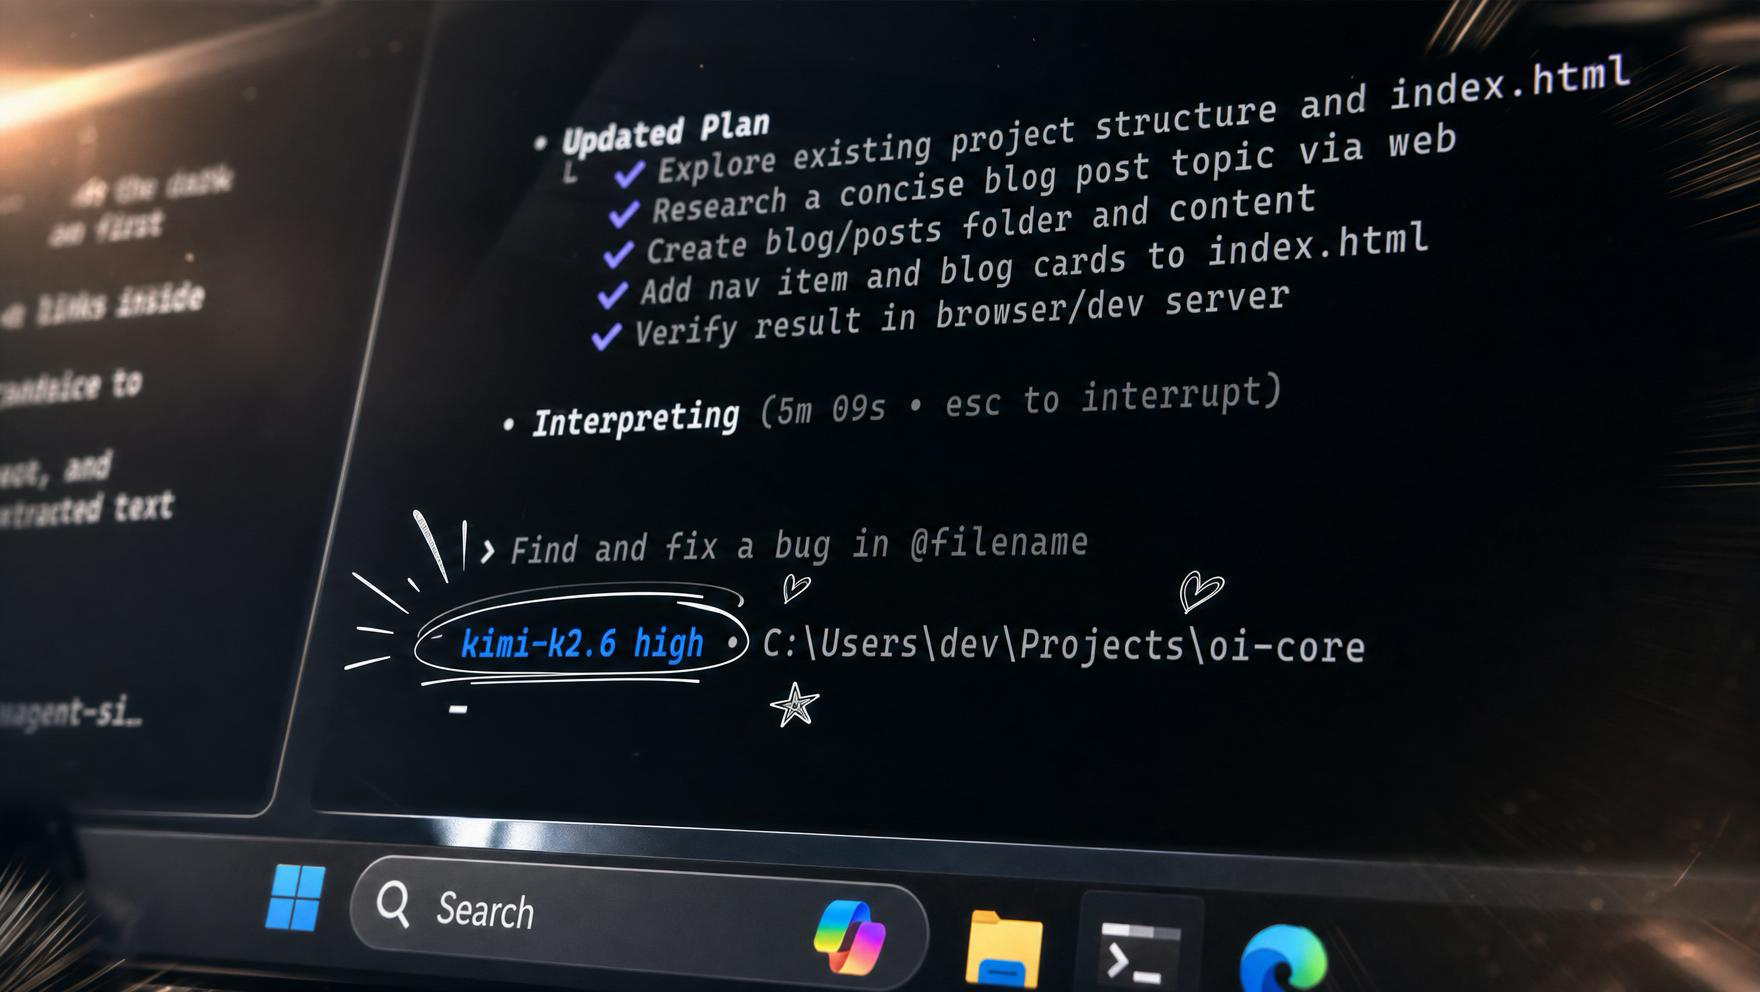
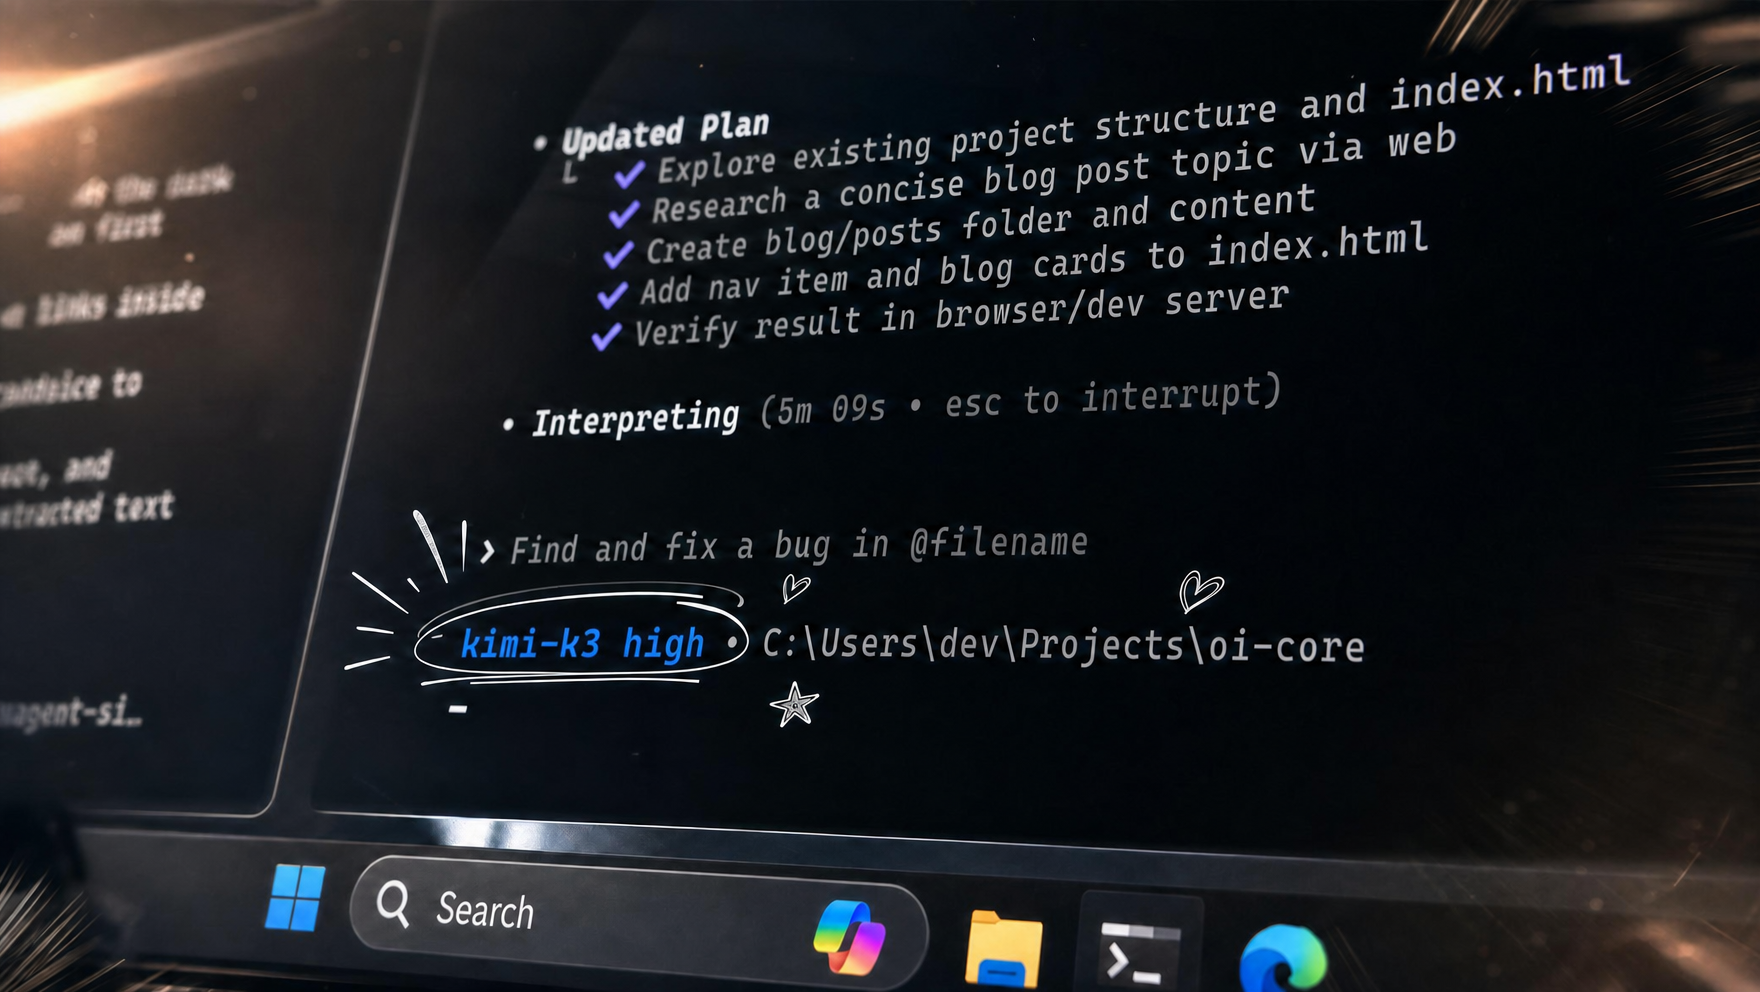
Update README hero for Kimi K3 (#1861)
* Update README hero for Kimi K3

* Refresh README translation checksums

---------

diff --git a/README_ES.md b/README_ES.md
@@ -1,4 +1,4 @@
-<!-- README translation source: README.md sha256=3e51f07f762d9c90dbb96887f859906cda9d3b242c5d98afecaadae2e5cbb73e -->
+<!-- README translation source: README.md sha256=ef2a5edc453b796000caa58b003828f569285d31ff55083299bdc5387b47afff -->
 
 <h1 align="center">Open Interpreter</h1>
 
@@ -24,7 +24,7 @@
 
 <p align="center">
   <a href="https://www.openinterpreter.com/blog/open-interpreter?utm_source=github&amp;utm_medium=referral&amp;utm_campaign=readme&amp;utm_content=hero_image">
-    <img alt="Open Interpreter ejecutándose en una terminal" src="https://openinterpreter.com/blog/open-interpreter/blog-hero-1.jpg" width="100%" />
+    <img alt="Open Interpreter ejecutándose en una terminal" src="docs-site/assets/open-interpreter-terminal-hero.png" width="100%" />
   </a>
 </p>
 

diff --git a/README_ZH.md b/README_ZH.md
@@ -1,4 +1,4 @@
-<!-- README translation source: README.md sha256=3e51f07f762d9c90dbb96887f859906cda9d3b242c5d98afecaadae2e5cbb73e -->
+<!-- README translation source: README.md sha256=ef2a5edc453b796000caa58b003828f569285d31ff55083299bdc5387b47afff -->
 
 <h1 align="center">Open Interpreter</h1>
 
@@ -24,7 +24,7 @@
 
 <p align="center">
   <a href="https://www.openinterpreter.com/blog/open-interpreter?utm_source=github&amp;utm_medium=referral&amp;utm_campaign=readme&amp;utm_content=hero_image">
-    <img alt="在终端中运行的 Open Interpreter" src="https://openinterpreter.com/blog/open-interpreter/blog-hero-1.jpg" width="100%" />
+    <img alt="在终端中运行的 Open Interpreter" src="docs-site/assets/open-interpreter-terminal-hero.png" width="100%" />
   </a>
 </p>
 

diff --git a/README.md b/README.md
@@ -22,7 +22,7 @@
 
 <p align="center">
   <a href="https://www.openinterpreter.com/blog/open-interpreter?utm_source=github&amp;utm_medium=referral&amp;utm_campaign=readme&amp;utm_content=hero_image">
-    <img alt="Open Interpreter running in a terminal" src="https://openinterpreter.com/blog/open-interpreter/blog-hero-1.jpg" width="100%" />
+    <img alt="Open Interpreter running in a terminal" src="docs-site/assets/open-interpreter-terminal-hero.png" width="100%" />
   </a>
 </p>
 
